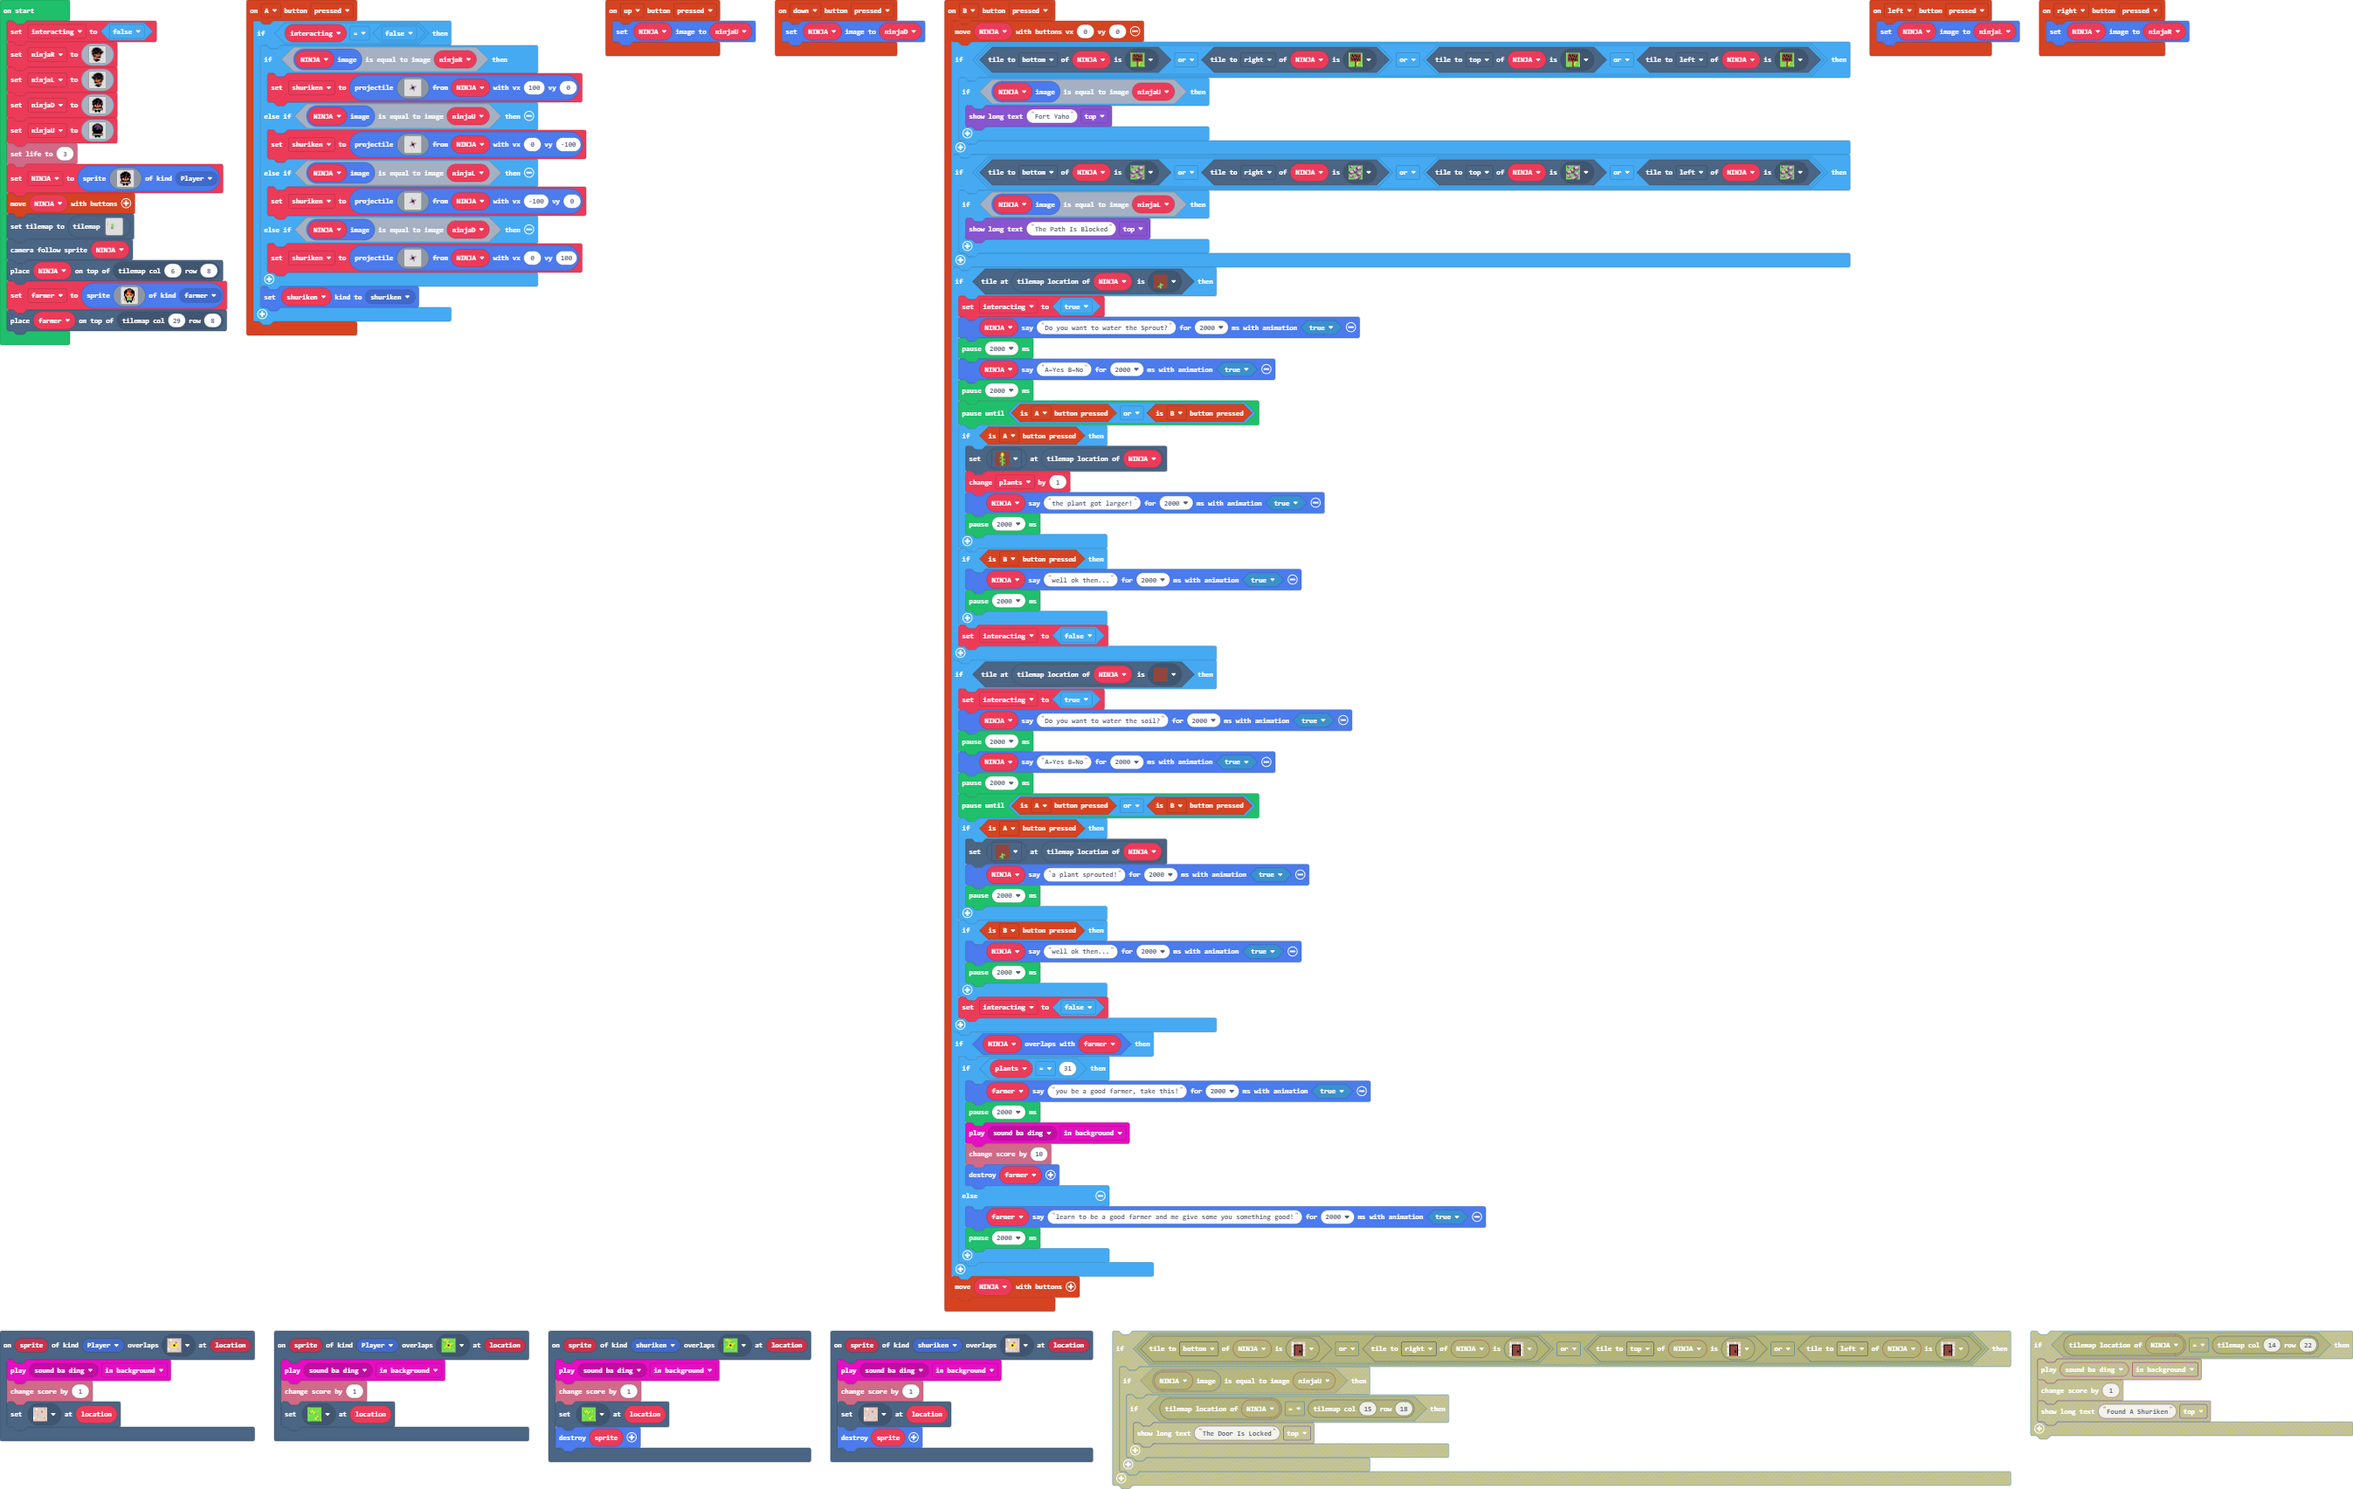
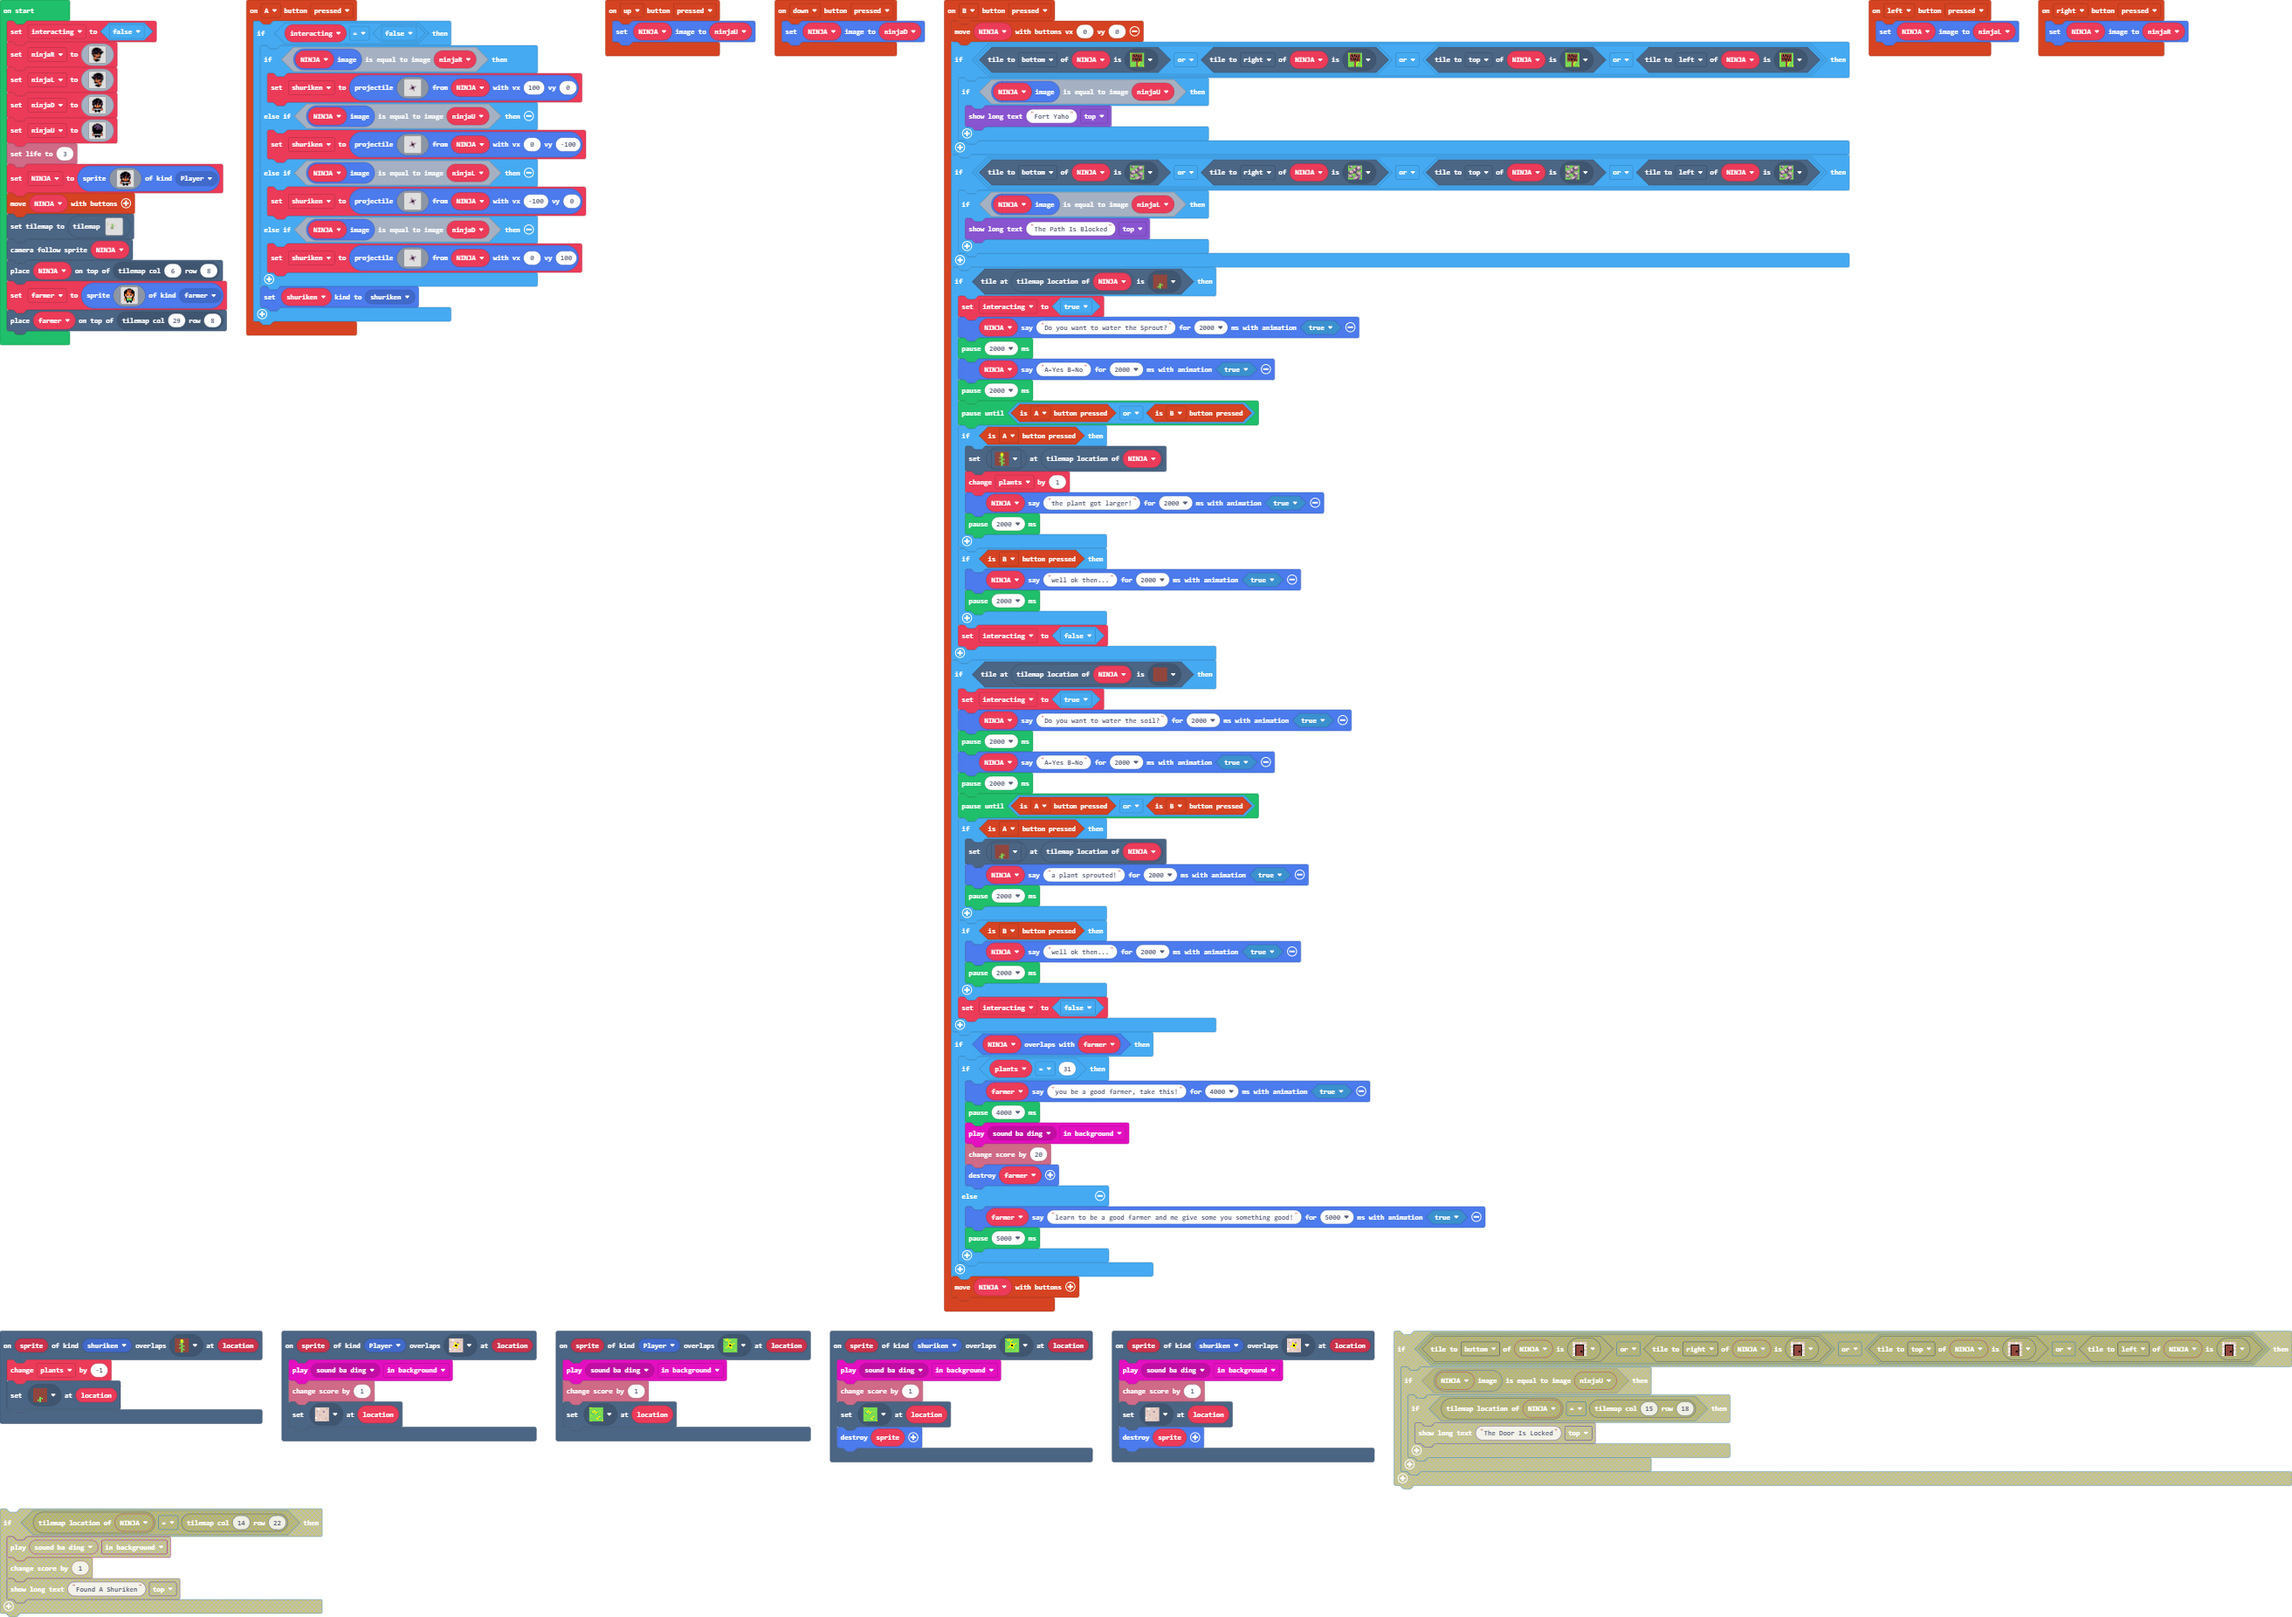
Update main.blocks, main.ts, images.g.jres, images.g.ts

Changed region(s): [[0.0, 0.0, 1.0, 1.0]]

diff --git a/images.g.ts b/images.g.ts
@@ -60,25 +60,6 @@ f f e e f b f e e f f . .
 . . . . . . . . . . . . . . . . 
 . . . . . . . . . . . . . . . . 
 `;
-            case "image4":
-            case "ninjaU":return img`
-. . . . f f f f . . . . 
-. . f f c c c c f f . . 
-. f f c c c c c c f f . 
-f f c c c c c c c c f f 
-f f c c f c c c c c c f 
-f f f f f c c c f c c f 
-f f f f c c c f c c f f 
-f f f f f f f f f f f f 
-f f f f f f f f f f f f 
-. f f f f f f f f f f . 
-. f f f f f f f f f f . 
-f e f f f f f f f f e f 
-e 4 1 1 1 1 1 1 1 1 4 e 
-e e f f f f f f f f e e 
-. . . f f f f f f . . . 
-. . . f f . . f f . . . 
-`;
             case "image1":
             case "ninjaD":return img`
 . . . . f f f f . . . . 
@@ -92,9 +73,28 @@ f f f b f e e f b f f f
 . f 4 1 f 4 4 f 1 4 f . 
 . f e 4 4 4 4 4 4 e f . 
 . f f f e e e e f f f . 
-f e f f f f f f f f e f 
+e e f f f f f f f f e e 
 e 4 1 1 1 1 1 1 1 1 4 e 
 e e f f f 1 f f f f e e 
+. . . f f f f f f . . . 
+. . . f f . . f f . . . 
+`;
+            case "image4":
+            case "ninjaU":return img`
+. . . . f f f f . . . . 
+. . f f c c c c f f . . 
+. f f c c c c c c f f . 
+f f c c c c c c c c f f 
+f f c c f c c c c c c f 
+f f f f f c c c f c c f 
+f f f f c c c f c c f f 
+f f f f f f f f f f f f 
+f f f f f f f f f f f f 
+. f f f f f f f f f f . 
+. f f f f f f f f f f . 
+e e f f f f f f f f e e 
+e 4 1 1 1 1 1 1 1 1 4 e 
+e e f f f f f f f f e e 
 . . . f f f f f f . . . 
 . . . f f . . f f . . . 
 `;

diff --git a/main.ts b/main.ts
@@ -67,14 +67,14 @@ controller.B.onEvent(ControllerButtonEvent.Pressed, function () {
     }
     if (NINJA.overlapsWith(farmer)) {
         if (plants == 31) {
-            farmer.sayText("you be a good farmer, take this!", 2000, true)
-            pause(2000)
+            farmer.sayText("you be a good farmer, take this!", 4000, true)
+            pause(4000)
             music.play(music.melodyPlayable(music.baDing), music.PlaybackMode.InBackground)
-            info.changeScoreBy(10)
+            info.changeScoreBy(20)
             sprites.destroy(farmer)
         } else {
-            farmer.sayText("learn to be a good farmer and me give some you something good!", 2000, true)
-            pause(2000)
+            farmer.sayText("learn to be a good farmer and me give some you something good!", 5000, true)
+            pause(5000)
         }
     }
     controller.moveSprite(NINJA)
@@ -112,6 +112,10 @@ controller.right.onEvent(ControllerButtonEvent.Pressed, function () {
 })
 controller.down.onEvent(ControllerButtonEvent.Pressed, function () {
     NINJA.setImage(ninjaD)
+})
+scene.onOverlapTile(SpriteKind.shuriken, assets.tile`myTile11`, function (sprite, location) {
+    plants += -1
+    tiles.setTileAt(location, assets.tile`myTile12`)
 })
 let shuriken: Sprite = null
 let plants = 0
